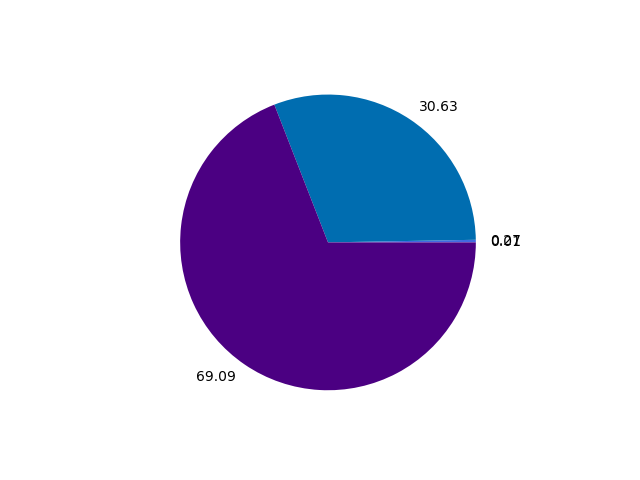
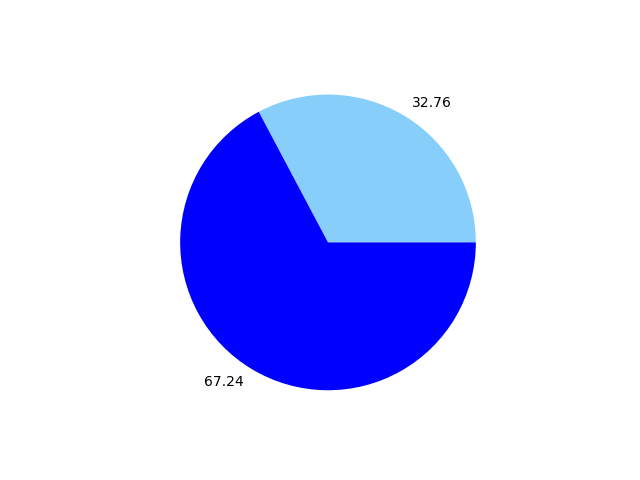
update_pie

Changed region(s): [[0.2812, 0.1875, 0.8125, 0.8125]]

diff --git a/templates/stainerpx.html b/templates/stainerpx.html
@@ -16,8 +16,8 @@
     
     <p>Select degree/gray zones:</p>
         
-        <input type="radio" id="zero" name="stain_degree" value='2'>
-        <label for="first">2</label><br>
+        <input type="radio" id="zero" name="stain_degree" value='4'>
+        <label for="first">4</label><br>
         <input type="radio" id="first" name="stain_degree" value='6'>
         <label for="first">6</label><br>
         <input type="radio" id="second" name="stain_degree" value='10'>

diff --git a/formexample/stainerpx.py b/formexample/stainerpx.py
@@ -82,15 +82,15 @@ def stainer(colors,path):
     st_colors = blueColors[:bright_blues] + blueColors[-dark_blues:]
     st_colors.insert(0,(255,255,255)) # background
     
-    st_data = [0 for x in range(len(st_colors))]
-    colors = []
+    st_data = [ 0 for x in range(len(st_colors)) ]
+    color_indexes = []
     for i in range(width):
         for j in range(height):
             for(index,start,end) in st_color_ints:
                 if start <= gray[i,j] and gray[i,j] <= end:
                     new[i,j]= st_colors[index]
-                    if st_colors[index] not in colors and index > 0: # no duplicate, no background!
-                        colors.append(st_colors[index])
+                    if index not in color_indexes and index > 0: # no duplicate, no background!
+                        color_indexes.append(index)
                     count=st_data[index]
                     st_data[index]=count+1
                     break
@@ -99,14 +99,18 @@ def stainer(colors,path):
     cv2.imwrite(f'{path}stain.png', new)
     
     new_data = [ i for i in st_data[1:] if i > 0 ] # no 0 values, no background!
-    percent = [ float(format(data/(size-st_data[0])*100,'.2f')) for data in new_data ] #if data/(size-st_data[0])*100 > 1 ] # no 0-1 %-s
+    percent = [ float(format(data/(size-st_data[0])*100,'.2f')) for data in new_data ]
     
-    " PIE diagram " # on Heroku ???
-
-    colors = [ tuple([i/255 for i in rgb]) for rgb in colors ]
+    " Pie diagram " # on Heroku ???
+    
+    # Sorting color indexes
+    sorted_colors = []
+    for i in sorted(color_indexes):
+        sorted_colors.append(st_colors[i])    
+    colors = [ tuple([i/255 for i in rgb]) for rgb in sorted_colors ]
     
     plt.clf()
-    plt.pie(new_data,colors=colors,labels=percent)
+    plt.pie(percent,colors=colors,labels=percent)
     plt.savefig(f'{path}pie_st.png')
     
     return percent
